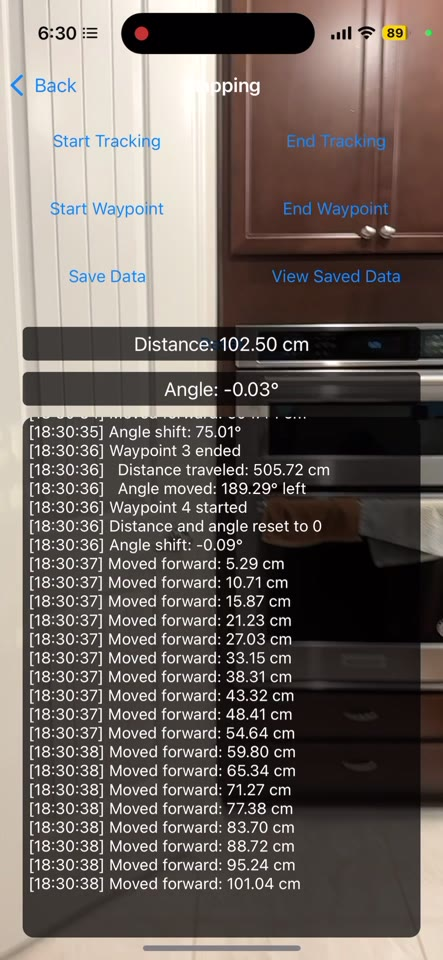
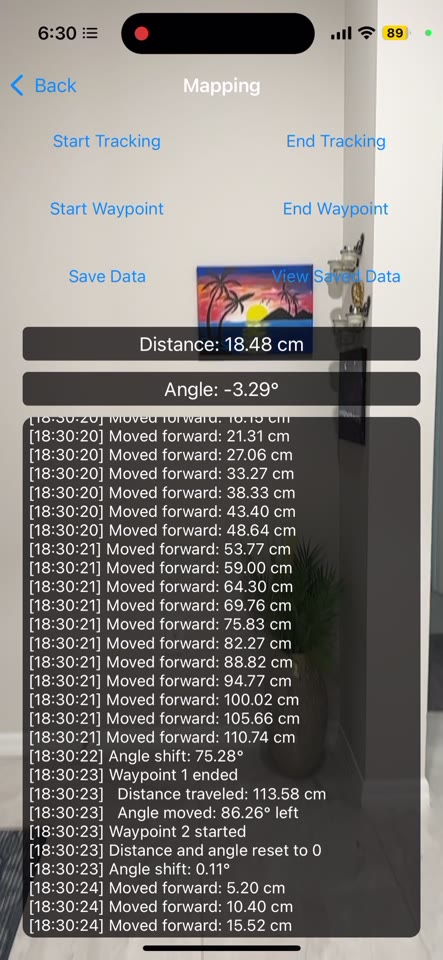
docs: replace README screenshots with clearer, more representative captures
The previous detection shots were night/outdoor frames whose distance readings
were visibly implausible — a bicycle two metres away reported at 11.53 m, cars
at 123 m. They showed the estimator at its worst on the front page.

Replaced with:
- indoor detection, chair at 91% / 4.12 m / -12.30 deg (Left)
- the same detection in a near-dark room, showing low-light capability
- outdoor turn-by-turn replay
- the recording screen, whose log shows a full waypoint lifecycle and so
  illustrates the (distance, angle) route model directly

Frames deliberately avoid classes absent from the published source's 21-entry
reference table. The earlier candidates showed 'potted plant' with a distance,
which the published code would drop at line 1738 - further confirmation the
footage is the lost October 2024 build. The caption now says so.

diff --git a/README.md b/README.md
@@ -28,11 +28,18 @@ ahead, how far away it is, and which side it is on — *"chair, 1.9 meters, left
 
 <div align="center">
 
-| Obstacle detection | Distance + bearing | Route recording | Turn-by-turn |
+| Obstacle detection | The same, near-dark | Recording a route | Turn-by-turn replay |
 |:---:|:---:|:---:|:---:|
-| <img src="docs/media/detection-bicycle.jpg" width="200"> | <img src="docs/media/detection-cars.jpg" width="200"> | <img src="docs/media/mapping.jpg" width="200"> | <img src="docs/media/navigation.jpg" width="200"> |
+| <img src="docs/media/detection-indoor.jpg" width="200"> | <img src="docs/media/detection-dark.jpg" width="200"> | <img src="docs/media/mapping.jpg" width="200"> | <img src="docs/media/navigation.jpg" width="200"> |
 
-*Real screenshots, October 2024. Detection works at night; the app can drive the torch in darkness.*
+*Unretouched captures, October 2024, iPhone 14 Pro.* Detection reports class, confidence,
+distance, and bearing — `chair: 91% · 4.12 m · −12.30° (Left)` — and still works in a room
+with the lights off, where the app can drive the torch. The recording screen's log shows the
+route model directly: *waypoint ended · distance travelled 113.58 cm · angle moved 86.26° left
+· next waypoint · reset to 0.*
+
+> These frames come from the **October 2024 build**, the same one in the demo video — not from
+> the source published here. See [Honest status](#honest-status).
 
 </div>
 
